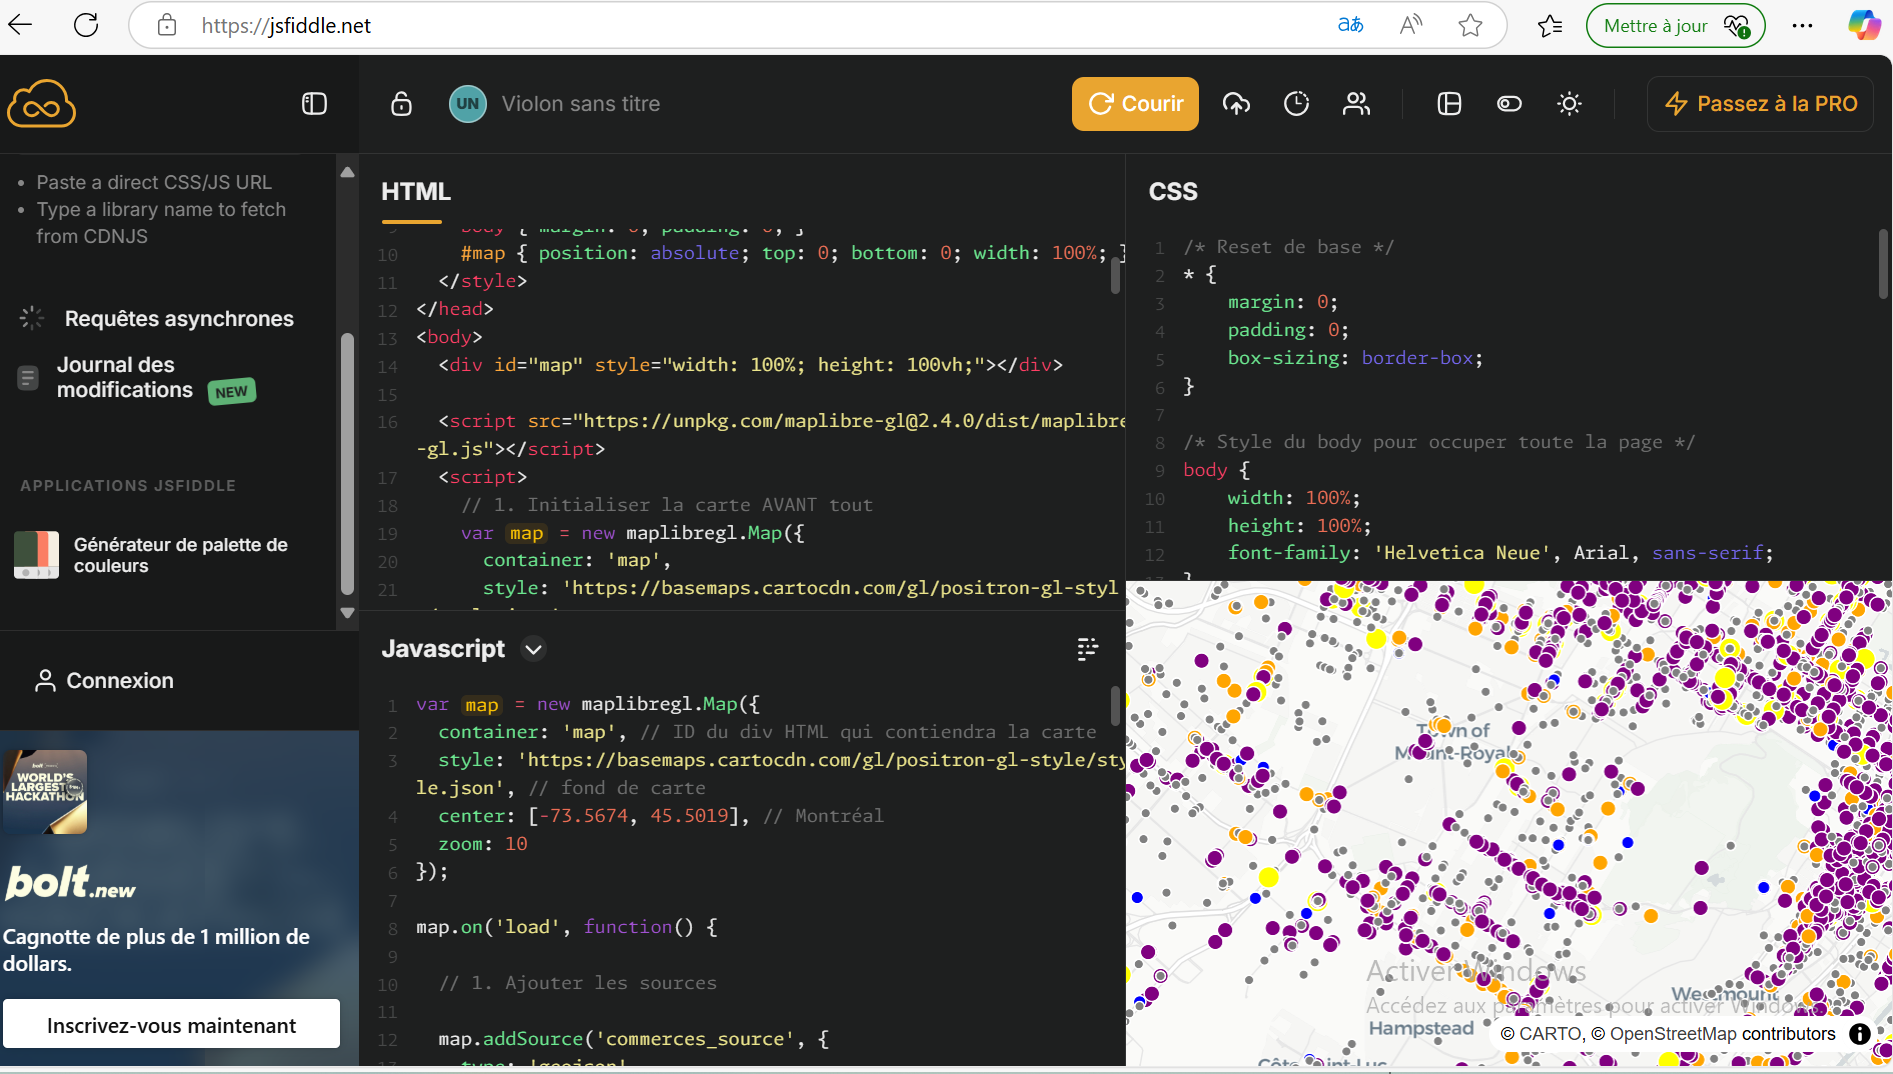
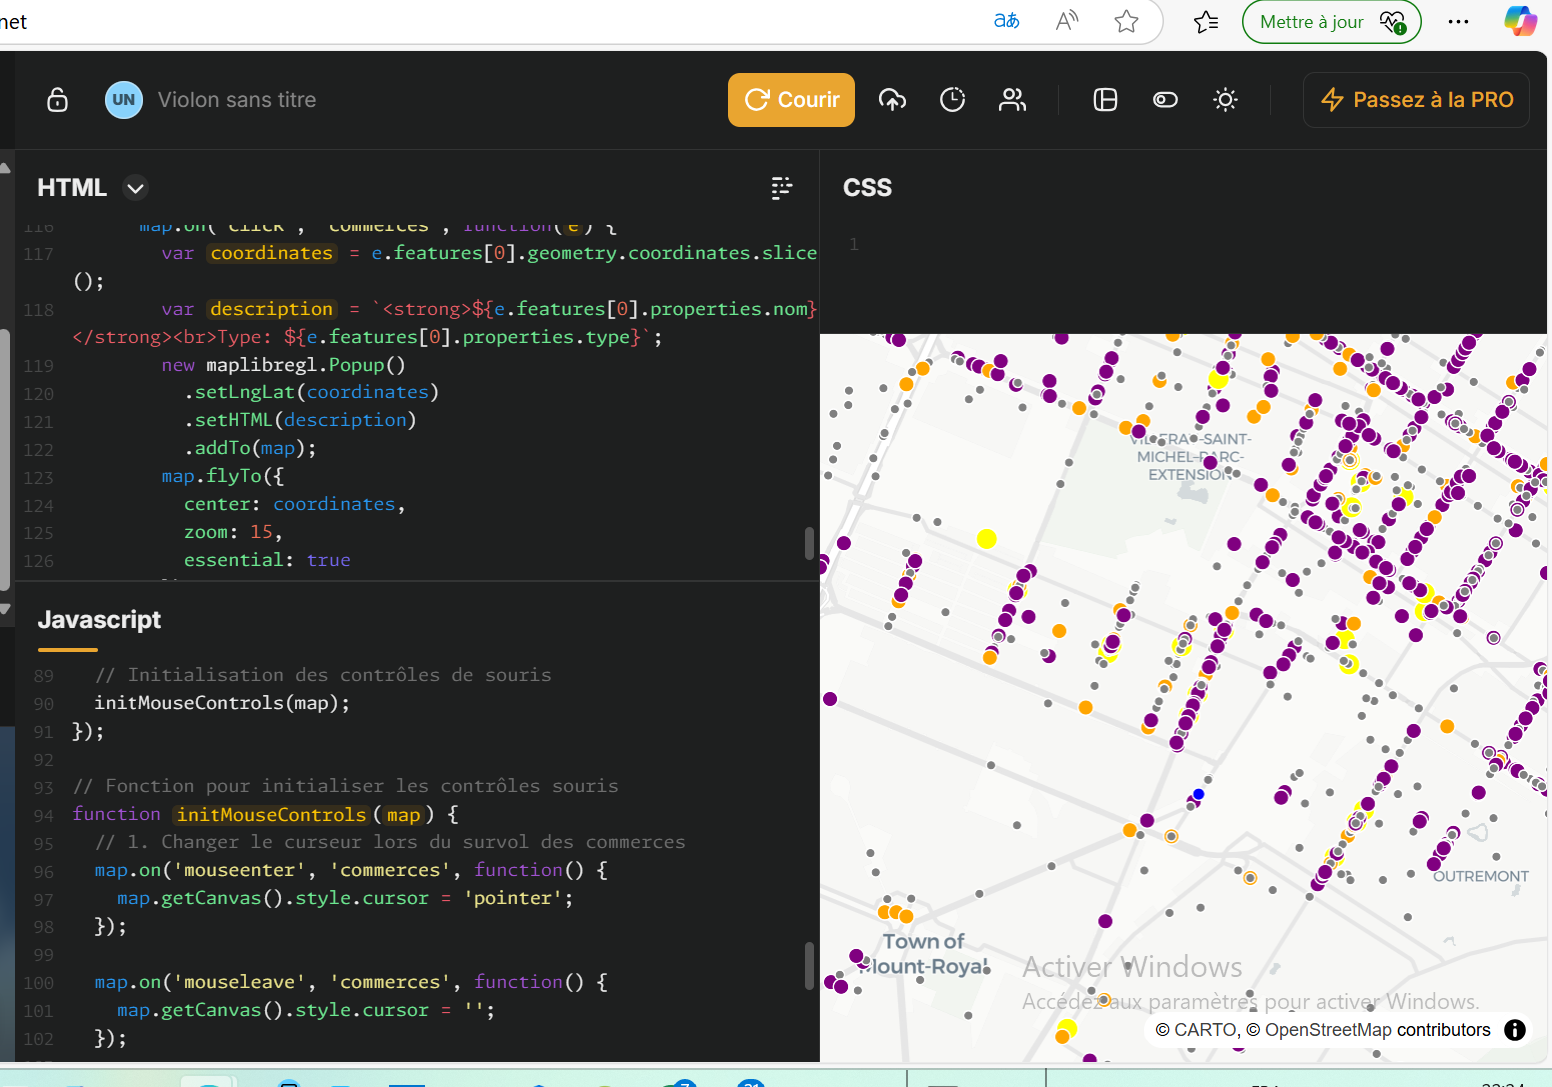
lab11

diff --git a/Lab11/Readme.md b/Lab11/Readme.md
@@ -145,6 +145,269 @@ On fait `run` pour afficher le résultat
 ## Javascript
 
 ```bash
+var map = new maplibregl.Map({
+  container: 'map', // ID du div HTML qui contiendra la carte
+  style: 'https://basemaps.cartocdn.com/gl/positron-gl-style/style.json', // fond de carte
+  center: [-73.5674, 45.5019], // Montréal
+  zoom: 10
+});
+
+map.on('load', function() {
+
+  //  Ajout des sources
+
+  map.addSource('commerces_source', {
+    type: 'geojson',
+    data: 'https://donnees.montreal.ca/dataset/c1d65779-d3cb-44e8-af0a-b9f2c5f7766d/resource/ece728c7-6f2d-4a51-a36d-21cd70e0ddc7/download/businesses.geojson'
+  });
+
+  map.addSource('arrondissements_source', {
+    type: 'vector',
+    tiles: [
+      'https://donnees.montreal.ca/fr/dataset/limites-administratives-agglomeration/resource/6b313375-d9bc-4dc3-af8e-ceae3762ae6e/view/9b7beb1a-cb97-4b20-a137-65eab42a8b0f'
+    ],
+    minzoom: 0,
+    maxzoom: 14
+  });
+
+  //  Ajout des couches
+
+  map.addLayer({
+    id: 'commerces',
+    type: 'circle',
+    source: 'commerces_source',
+    paint: {
+      'circle-radius': [
+        'match',
+        ['get', 'type'],
+        'Épicerie', 5,
+        'Pâtisserie/Boulangerie', 7,
+        'Distributrice automatique', 4,
+        'Pharmacie', 6,
+        'Restaurant', 5,
+        3
+      ],
+      'circle-color': [
+        'match',
+        ['get', 'type'],
+        'Épicerie', 'orange',
+        'Pâtisserie/Boulangerie', 'yellow',
+        'Distributrice automatique', 'blue',
+        'Pharmacie', 'green',
+        'Restaurant', 'purple',
+        'grey'
+      ],
+      'circle-stroke-color': '#fff',
+      'circle-stroke-width': 1
+    },
+    filter: ['==', ['get', 'statut'], 'Ouvert']
+  });
+
+  map.addLayer({
+    id: 'arrondissements',
+    type: 'fill',
+    source: 'arrondissements_source',
+    'source-layer': 'arrondissements', // important pour vector tile
+    paint: {
+      'fill-outline-color': 'black',
+      'fill-color': 'white',
+      'fill-opacity': 0.2
+    }
+  });
+
+  map.addLayer({
+    id: 'arrondissement-labels',
+    type: 'symbol',
+    source: 'arrondissements_source',
+    'source-layer': 'arrondissements', // important pour vector tile
+    layout: {
+      'text-field': ['get', 'nom'], 
+      'text-font': ['Open Sans Bold', 'Arial Unicode MS Bold'],
+      'text-size': 14,
+      'text-anchor': 'center'
+    },
+    paint: {
+      'text-color': '#111',
+      'text-halo-color': '#fff',
+      'text-halo-width': 1.5
+    }
+  });
+
+  // Initialisation des contrôles de souris
+  initMouseControls(map);
+});
+
+// Fonction pour initialiser les contrôles souris
+function initMouseControls(map) {
+  // 1. Changer le curseur lors du survol des commerces
+  map.on('mouseenter', 'commerces', function() {
+    map.getCanvas().style.cursor = 'pointer';
+  });
+
+  map.on('mouseleave', 'commerces', function() {
+    map.getCanvas().style.cursor = '';
+  });
+
+  // 2. Clic sur un commerce : afficher une popup, zoomer et recentrer
+  map.on('click', 'commerces', function(e) {
+    var coordinates = e.features[0].geometry.coordinates.slice();
+    var description = `<strong>${e.features[0].properties.nom}</strong><br>Type: ${e.features[0].properties.type}`;
+
+    // Créer une popup
+    new maplibregl.Popup()
+      .setLngLat(coordinates)
+      .setHTML(description)
+      .addTo(map);
+
+    // Zoomer et recentrer la carte
+    map.flyTo({
+      center: coordinates,
+      zoom: 15, 
+      essential: true // pour garantir que la transition
+    });
+  });
+}
+```
+
+
+## Html
+
+
+```bash
+<!DOCTYPE html>
+<html>
+<head>
+  <meta charset="utf-8">
+  <title>Carte commerces Montréal</title>
+  <meta name="viewport" content="width=device-width, initial-scale=1">
+  <link href="https://unpkg.com/maplibre-gl@2.4.0/dist/maplibre-gl.css" rel="stylesheet" />
+  <style>
+    body { margin: 0; padding: 0; }
+    #map { position: absolute; top: 0; bottom: 0; width: 100%; }
+  </style>
+</head>
+<body>
+  <div id="map" style="width: 100%; height: 100vh;"></div>
+
+  <script src="https://unpkg.com/maplibre-gl@2.4.0/dist/maplibre-gl.js"></script>
+  <script>
+    // 1. Initialiser la carte AVANT tout
+    var map = new maplibregl.Map({
+      container: 'map',
+      style: 'https://basemaps.cartocdn.com/gl/positron-gl-style/style.json',
+      center: [-73.5674, 45.5019], // Montréal
+      zoom: 10
+    });
+
+    // 2. Quand la carte est chargée, on ajoute les sources et couches
+    map.on('load', function() {
+      map.addSource('commerces_source', {
+        type: 'geojson',
+        data: 'https://donnees.montreal.ca/dataset/c1d65779-d3cb-44e8-af0a-b9f2c5f7766d/resource/ece728c7-6f2d-4a51-a36d-21cd70e0ddc7/download/businesses.geojson'
+      });
+
+      map.addSource('arrondissements_source', {
+        type: 'vector',
+        tiles: [
+          'https://donnees.montreal.ca/tiles/limites-administratives/agglomeration/{z}/{x}/{y}.pbf'
+        ],
+        minzoom: 0,
+        maxzoom: 14
+      });
+
+      map.addLayer({
+        id: 'commerces',
+        type: 'circle',
+        source: 'commerces_source',
+        paint: {
+          'circle-radius': [
+            'match',
+            ['get', 'type'],
+            'Épicerie', 5,
+            'Pâtisserie/Boulangerie', 7,
+            'Distributrice automatique', 4,
+            'Pharmacie', 6,
+            'Restaurant', 5,
+            3
+          ],
+          'circle-color': [
+            'match',
+            ['get', 'type'],
+            'Épicerie', 'orange',
+            'Pâtisserie/Boulangerie', 'yellow',
+            'Distributrice automatique', 'blue',
+            'Pharmacie', 'green',
+            'Restaurant', 'purple',
+            'grey'
+          ],
+          'circle-stroke-color': '#fff',
+          'circle-stroke-width': 1
+        },
+        filter: ['==', ['get', 'statut'], 'Ouvert']
+      });
+
+      map.addLayer({
+        id: 'arrondissements',
+        type: 'fill',
+        source: 'arrondissements_source',
+        'source-layer': 'arrondissements', 
+        paint: {
+          'fill-outline-color': 'black',
+          'fill-color': 'white',
+          'fill-opacity': 0.2
+        }
+      });
+
+      map.addLayer({
+        id: 'arrondissement-labels',
+        type: 'symbol',
+        source: 'arrondissements_source',
+        'source-layer': 'arrondissements',
+        layout: {
+          'text-field': ['get', 'nom'],
+          'text-font': ['Open Sans Bold', 'Arial Unicode MS Bold'],
+          'text-size': 14,
+          'text-anchor': 'center'
+        },
+        paint: {
+          'text-color': '#111',
+          'text-halo-color': '#fff',
+          'text-halo-width': 1.5
+        }
+      });
+
+      // Initialiser les contrôles souris
+      initMouseControls(map);
+    });
+
+    function initMouseControls(map) {
+      map.on('mouseenter', 'commerces', function() {
+        map.getCanvas().style.cursor = 'pointer';
+      });
+
+      map.on('mouseleave', 'commerces', function() {
+        map.getCanvas().style.cursor = '';
+      });
+
+      map.on('click', 'commerces', function(e) {
+        var coordinates = e.features[0].geometry.coordinates.slice();
+        var description = `<strong>${e.features[0].properties.nom}</strong><br>Type: ${e.features[0].properties.type}`;
+        new maplibregl.Popup()
+          .setLngLat(coordinates)
+          .setHTML(description)
+          .addTo(map);
+        map.flyTo({
+          center: coordinates,
+          zoom: 15,
+          essential: true
+        });
+      });
+    }
+  </script>
+</body>
+</html>
+```
+
 
 
 
